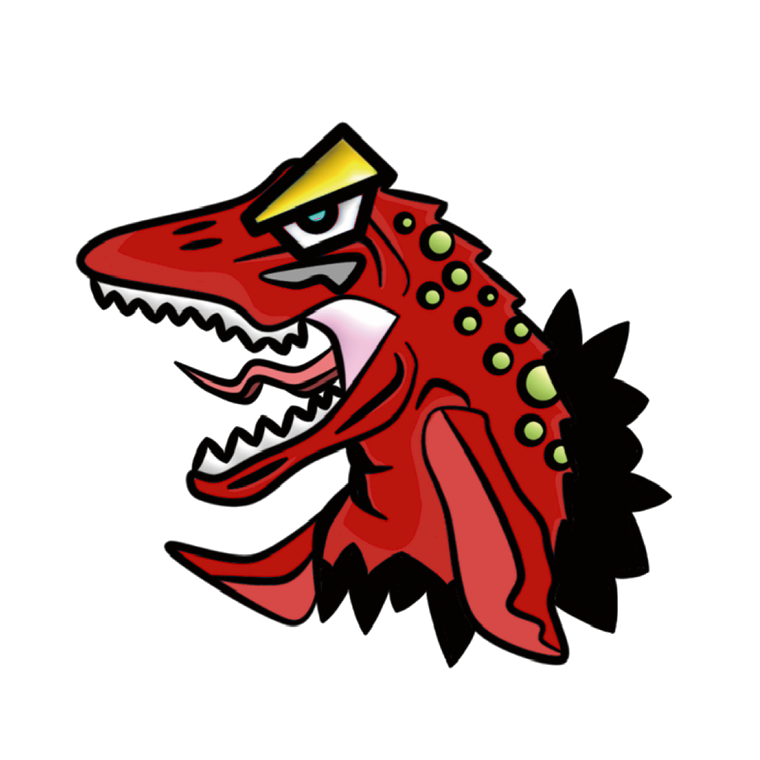
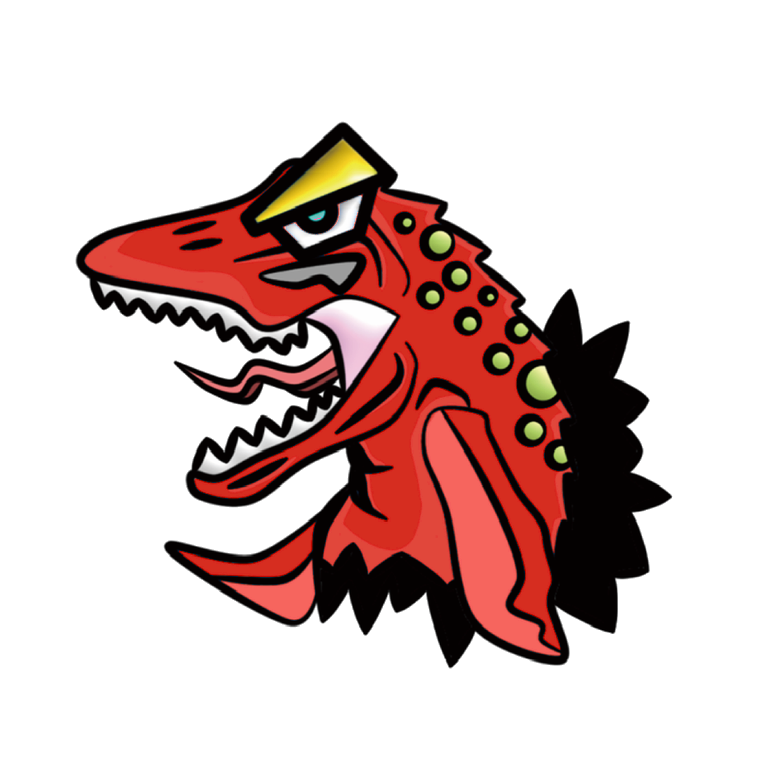
BLAZE RED明るく揃える・image方式は全色プリロードでタップ遅延解消

Changed region(s): [[0.0908, 0.2421, 0.7566, 0.8776]]

diff --git a/template.html b/template.html
@@ -152,6 +152,10 @@ document.body.style.setProperty("--bg", CONFIG.bg);
 document.getElementById("char").src = CONFIG.baseImage;
 // 商品未設定なら購入ボタンを隠す
 const shopReady = CONFIG.shop.productUrl && !CONFIG.shop.productUrl.includes("...");
+// image方式は全色を事前読み込みしてタップ即時切替（遅延防止）
+if(CONFIG.mode === "image"){
+  CONFIG.palettes.forEach(p => { const im = new Image(); im.src = `${CONFIG.imageDir}/${CONFIG.imageKey}_${p.key}.png`; });
+}
 
 const stage = document.getElementById("stage");
 const img   = document.getElementById("char");

diff --git a/mossun.html b/mossun.html
@@ -151,6 +151,9 @@ document.body.style.setProperty("--bg", CONFIG.bg);
 document.getElementById("char").src = CONFIG.baseImage;
 // 商品未設定なら購入ボタンを隠す
 const shopReady = CONFIG.shop.productUrl && !CONFIG.shop.productUrl.includes("...");
+if(CONFIG.mode === "image"){
+  CONFIG.palettes.forEach(p => { const im = new Image(); im.src = `${CONFIG.imageDir}/${CONFIG.imageKey}_${p.key}.png`; });
+}
 
 const stage = document.getElementById("stage");
 const img   = document.getElementById("char");

diff --git a/putti.html b/putti.html
@@ -151,6 +151,9 @@ document.body.style.setProperty("--bg", CONFIG.bg);
 document.getElementById("char").src = CONFIG.baseImage;
 // 商品未設定なら購入ボタンを隠す
 const shopReady = CONFIG.shop.productUrl && !CONFIG.shop.productUrl.includes("...");
+if(CONFIG.mode === "image"){
+  CONFIG.palettes.forEach(p => { const im = new Image(); im.src = `${CONFIG.imageDir}/${CONFIG.imageKey}_${p.key}.png`; });
+}
 
 const stage = document.getElementById("stage");
 const img   = document.getElementById("char");
